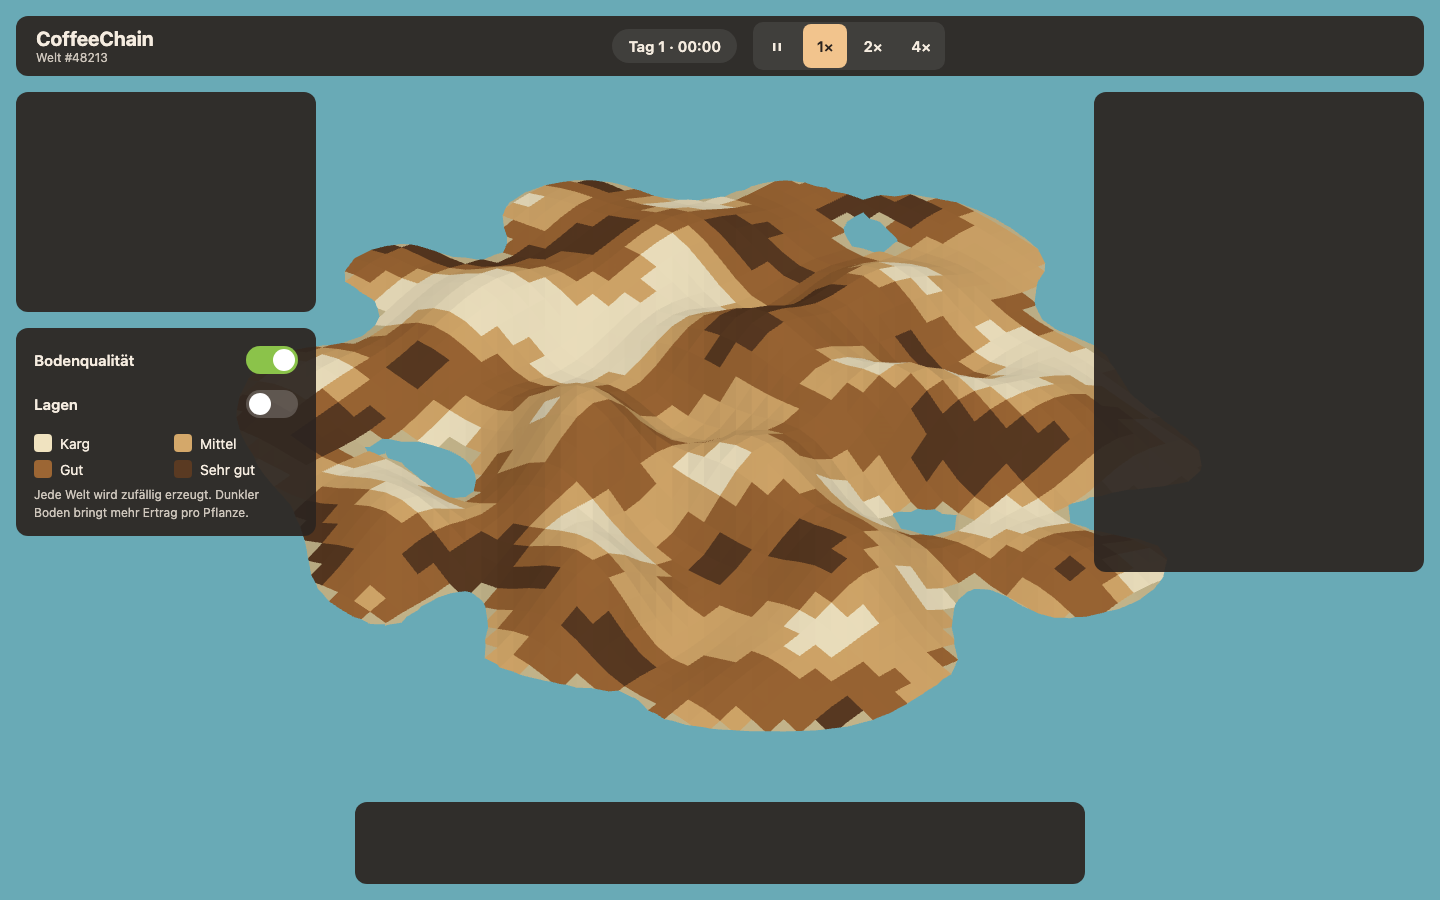
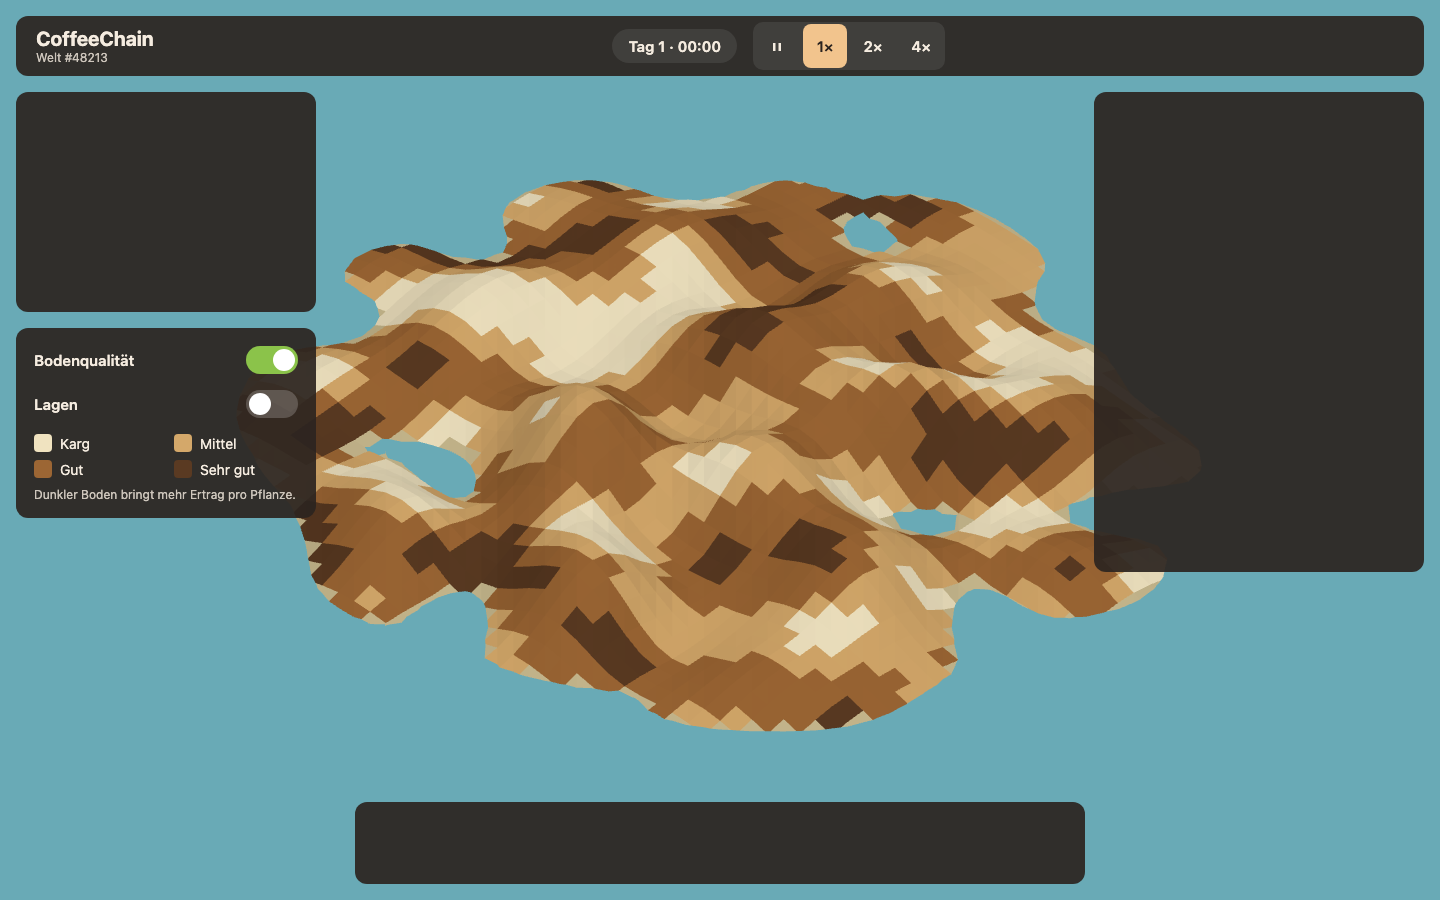
fix(ui): keep overlay switches and legend readable in narrow windows
Stop the switch track from shrinking and add a gap to the label.
Show the legend in one column at 480 px and less.
Shorten the soil hint and simplify the color choice.

Claude-Session: https://claude.ai/code/session_01SVL3Jb7dyYQMMNd2wyYRtH

Changed region(s): [[0.0, 0.5289, 0.2188, 0.6222]]

diff --git a/e2e/screenshot.spec.ts b/e2e/screenshot.spec.ts
@@ -143,3 +143,20 @@ test('S7: soil and zone overlay switches', async ({ page }) => {
   await expect(legend).toHaveCount(0)
   expect(errors).toEqual([])
 })
+
+test('S7: overlay panel fits a narrow window', async ({ page }) => {
+  await page.setViewportSize({ width: 390, height: 844 })
+  await page.goto('/')
+  const panel = page.getByTestId('hud-overlay-panel')
+  for (const mode of ['soil', 'zone']) {
+    await page.getByTestId(`overlay-${mode}`).click()
+    const track = page.getByTestId(`overlay-${mode}`).locator('.track')
+    expect((await track.boundingBox())!.width).toBe(52)
+    const box = (await panel.boundingBox())!
+    for (const item of await page.getByTestId('overlay-legend').locator('li').all()) {
+      const fits = await item.evaluate((el) => el.scrollWidth <= el.clientWidth)
+      const b = (await item.boundingBox())!
+      expect(fits && b.x + b.width <= box.x + box.width).toBe(true)
+    }
+  }
+})

diff --git a/src/render/overlays.ts b/src/render/overlays.ts
@@ -26,13 +26,9 @@ export function overlayColors(world: World, mode: OverlayMode): Float32Array {
   const out = new Float32Array(world.parcels.length * 12)
   const color = new Color()
   world.parcels.forEach((p, i) => {
-    color.setHex(
-      mode === 'zone'
-        ? ZONE_OVERLAY_COLORS[p.zone]
-        : mode === 'soil' && p.zone !== 'wasser'
-          ? SOIL_COLORS[p.soilClass]
-          : ZONE_COLORS[p.zone],
-    )
+    if (mode === 'zone') color.setHex(ZONE_OVERLAY_COLORS[p.zone])
+    else if (mode === 'soil' && p.zone !== 'wasser') color.setHex(SOIL_COLORS[p.soilClass])
+    else color.setHex(ZONE_COLORS[p.zone])
     for (let v = 0; v < 4; v++) out.set([color.r, color.g, color.b], i * 12 + v * 3)
   })
   return out

diff --git a/src/ui/OverlayPanel.vue b/src/ui/OverlayPanel.vue
@@ -63,6 +63,7 @@ button {
   display: flex;
   align-items: center;
   justify-content: space-between;
+  gap: 8px;
   width: 100%;
   min-height: 44px;
   padding: 0;
@@ -80,6 +81,7 @@ button:focus-visible {
   border-radius: 6px;
 }
 .track {
+  flex: none;
   position: relative;
   width: 52px;
   height: 28px;
@@ -122,6 +124,11 @@ button[aria-checked='true'] .thumb {
   width: 18px;
   height: 18px;
   border-radius: 4px;
+}
+@media (max-width: 480px) {
+  .legend {
+    grid-template-columns: 1fr;
+  }
 }
 .hint {
   margin: 8px 0 4px;
